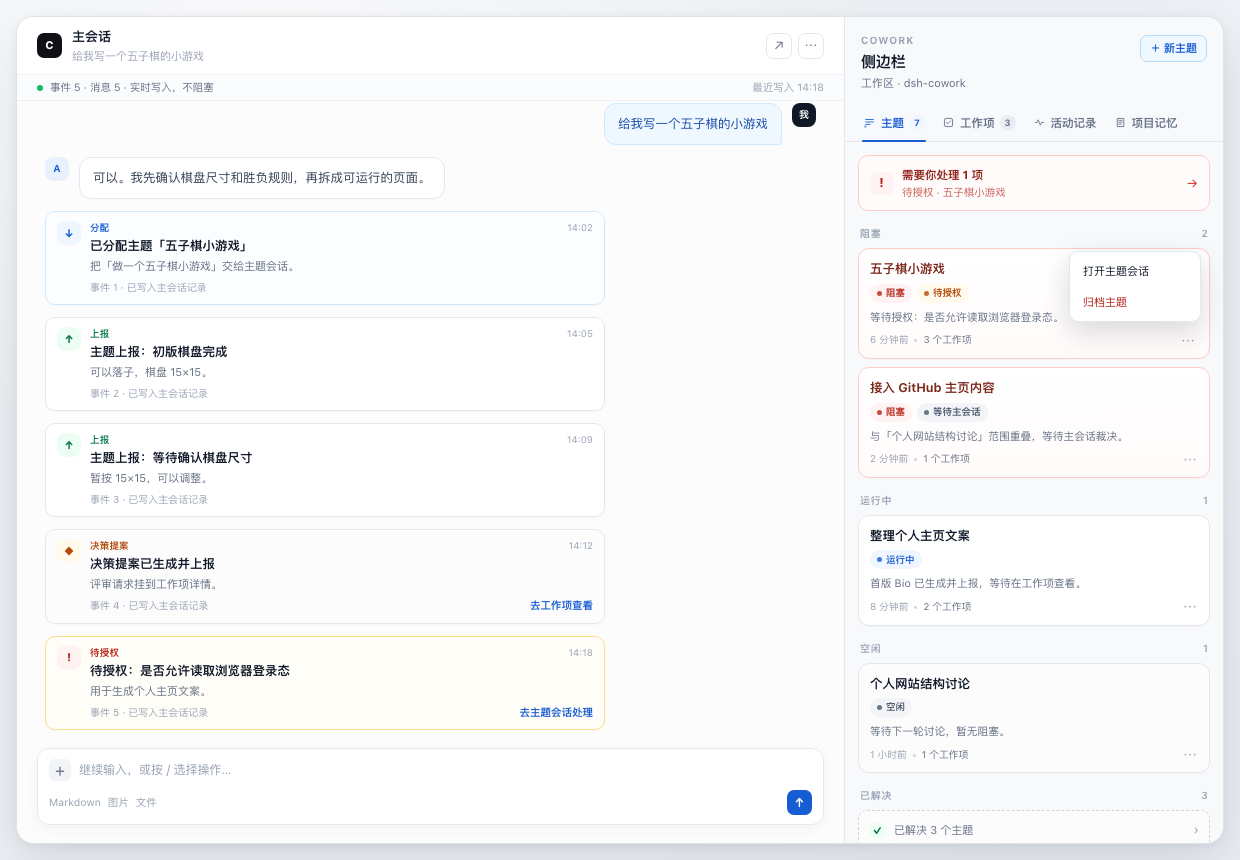
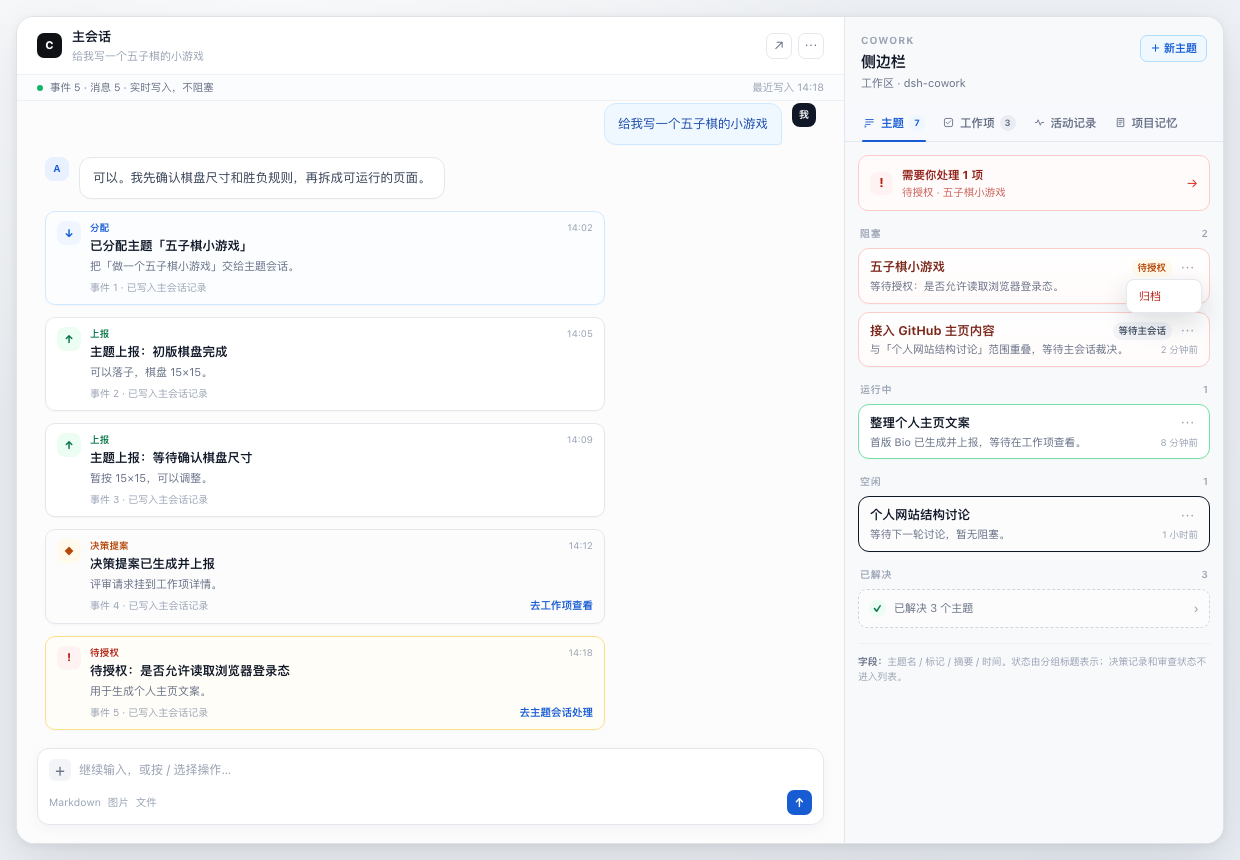
docs(design): 主题卡按分组着色并同步交互稿
阻塞沿用当前红色，运行中绿色，空闲黑色，已解决灰色。两行卡片和
一行归档/恢复菜单同步到完整交互稿、总览图和归档截图。

diff --git a/docs/discussion/topic-demo-v2.html b/docs/discussion/topic-demo-v2.html
@@ -119,26 +119,23 @@
     blocked: {
       title: '接入 GitHub 主页内容',
       cls: 'blocked',
-      chips: [['red', '阻塞'], ['gray', '等待主会话']],
+      chips: [['gray', '等待主会话']],
       digest: '与「个人网站结构讨论」范围重叠，等待主会话裁决。',
-      time: '2 分钟前',
-      work: 1
+      time: '2 分钟前'
     },
     running: {
       title: '整理个人主页文案',
       cls: 'running',
-      chips: [['blue', '运行中']],
+      chips: [],
       digest: '首版 Bio 已生成并上报，等待在工作项查看。',
-      time: '8 分钟前',
-      work: 2
+      time: '8 分钟前'
     },
     idle: {
       title: '个人网站结构讨论',
       cls: 'idle',
-      chips: [['gray', '空闲']],
+      chips: [],
       digest: '等待下一轮讨论，暂无阻塞。',
-      time: '1 小时前',
-      work: 1
+      time: '1 小时前'
     }
   }
 
@@ -183,14 +180,14 @@
     if (state.step === 0) return null
     if (state.archived) {
       return {
-        title: '五子棋小游戏', cls: 'resolved', chips: [['green', '已解决']],
-        digest: '已归档 · 主会话已记录。', time: '刚刚', work: 3
+        title: '五子棋小游戏', cls: 'resolved', chips: [],
+        digest: '已归档 · 主会话已记录。', time: '刚刚'
       }
     }
     if (state.step >= 4 && state.permission === 'pending') {
       return {
-        title: '五子棋小游戏', cls: 'blocked', chips: [['red', '阻塞'], ['amber', '待授权']],
-        digest: '等待授权：是否允许读取浏览器登录态。', time: '6 分钟前', work: 3
+        title: '五子棋小游戏', cls: 'blocked', chips: [['amber', '待授权']],
+        digest: '等待授权：是否允许读取浏览器登录态。', time: '6 分钟前'
       }
     }
     const digests = {
@@ -205,31 +202,32 @@
     }
     const times = { 1: '刚刚', 2: '3 分钟前', 3: '5 分钟前', 4: '6 分钟前', 5: '6 分钟前' }
     return {
-      title: '五子棋小游戏', cls: 'running', chips: [['blue', '运行中']],
-      digest: digests[Math.min(state.step, 4)], time: times[state.step] || '刚刚', work: 3
+      title: '五子棋小游戏', cls: 'running', chips: [],
+      digest: digests[Math.min(state.step, 4)], time: times[state.step] || '刚刚'
     }
   }
 
   function cardHtml(card, isDemo = false) {
-    const chips = card.chips.map(([kind, text]) => `<span class="chip ${kind}">${esc(text)}</span>`).join('')
+    const markers = card.chips.map(([kind, text]) => `<span class="marker ${kind}">${esc(text)}</span>`).join('')
     const more = isDemo
       ? '<button class="more more-button" data-card-menu="1" aria-label="主题菜单">⋯</button>'
       : '<span class="more">⋯</span>'
     const menu = isDemo && state.menu
       ? `<div class="card-menu" role="menu">
-          <button data-menu="open">打开主题会话</button>
           ${state.archived
-            ? '<button data-menu="restore" class="menu-restore">从归档中恢复</button>'
-            : '<button data-menu="archive" class="menu-archive">归档主题</button>'}
+            ? '<button data-menu="restore" class="menu-restore">恢复</button>'
+            : '<button data-menu="archive" class="menu-archive">归档</button>'}
         </div>`
       : ''
     return `<article class="topic-card ${card.cls}">
-      <h3 class="topic-title">${esc(card.title)}</h3>
-      <div class="chips">${chips}</div>
-      <p class="digest">${esc(card.digest)}</p>
-      <div class="topic-meta">
-        <span class="topic-meta-left">${esc(card.time)}<span class="meta-dot"></span><span class="work-count">${card.work} 个工作项</span></span>
+      <div class="topic-head">
+        <h3 class="topic-title">${esc(card.title)}</h3>
+        ${markers}
         ${more}
+      </div>
+      <div class="topic-body">
+        <p class="topic-summary">${esc(card.digest)}</p>
+        <span class="topic-time">${esc(card.time)}</span>
       </div>
       ${menu}
     </article>`
@@ -272,7 +270,7 @@
       + group('运行中', runningCards, runningCards.length)
       + group('空闲', [cardHtml(STATIC.idle)], 1)
       + group('已解决', resolvedCards, resolvedTotal, resolvedExtra)
-      + `<div class="field-note"><b>字段：</b>主题名 / 生命周期 / 待授权 / 更新时间 / 摘要 / 工作项数。决策记录和审查状态不进入主题列表。</div>`
+      + `<div class="field-note"><b>字段：</b>主题名 / 标记 / 摘要 / 时间。状态由分组标题表示；决策记录和审查状态不进入列表。</div>`
 
     document.getElementById('topicTabCount').textContent = String(6 + (state.step >= 1 ? 1 : 0))
   }
@@ -351,7 +349,7 @@
         <thead><tr><th>现在</th><th>事件</th><th>之后</th></tr></thead>
         <tbody>
           <tr><td>—</td><td>主会话分配</td><td>运行中</td></tr>
-          <tr><td>运行中</td><td>1 天没有活动</td><td>空闲</td></tr>
+          <tr><td>运行中</td><td>最后一次活动后 1 天</td><td>空闲</td></tr>
           <tr><td>空闲</td><td>新活动</td><td>运行中</td></tr>
           <tr><td>运行中 / 空闲</td><td>待授权、跨主题冲突、交接阻塞</td><td>阻塞</td></tr>
           <tr><td>阻塞</td><td>问题处理完</td><td>回到阻塞前的状态</td></tr>
@@ -363,7 +361,7 @@
       <p class="ov-note"><b>决策记录：</b>只在主题会话生成并上报；主题页不展示记录，也不展示审查状态。查看和提意见在工作项，资料进 Artifact 工作室，这两处不在本设计内。</p>
       <p class="ov-note"><b>需要你处理：</b>只统计待授权，是入口不是队列。分配、上报、提案的提醒在会话记录里，不在主题页复制。</p>
       <p class="ov-note"><b>待授权：</b>是标记不是分组。标记出现时主题在阻塞组；处理完回到阻塞前的状态。</p>
-      <p class="ov-note"><b>归档入口：</b>在主题卡的 ⋯ 菜单里，菜单里另有“从归档中恢复”。归档后主会话只留一条消息。</p>
+      <p class="ov-note"><b>归档入口：</b>在主题卡的 ⋯ 菜单里；已解决卡片的菜单里是“恢复”。归档后主会话只留一条消息。</p>
     </div>`
   }
 

diff --git a/docs/discussion/topic-card-style.html b/docs/discussion/topic-card-style.html
@@ -65,7 +65,9 @@
     box-shadow: 0 1px 1px rgba(16, 24, 40, .025);
   }
   .card.blocked { border-color: #fecdca; background: linear-gradient(180deg, #fff 0%, #fffbfa 100%); }
-  .card.resolved { background: #fcfcfd; }
+  .card.running { border-color: #75e0a7; }
+  .card.idle { border-color: #101828; background: #fcfcfd; }
+  .card.resolved { border-color: #c3c9d4; background: #fcfcfd; }
   .head { display: flex; align-items: center; gap: 6px; }
   .title {
     flex: 1;
@@ -172,7 +174,7 @@
 <div class="canvas">
   <header>
     <h1>主题卡样式：两行 + 菜单最多 2 行</h1>
-    <div class="sub">卡片只留主题名和一行摘要。待授权等标记放主题名右侧，时间放摘要右侧；运行中、阻塞、已解决由分组标题表示，不在卡片上重复。</div>
+    <div class="sub">卡片只留主题名和一行摘要。待授权等标记放主题名右侧，时间放摘要右侧；运行中、阻塞、已解决由分组标题表示，不在卡片上重复。边框颜色：阻塞红、运行中绿、空闲黑、已解决灰。</div>
   </header>
 
   <div class="grid">
@@ -205,7 +207,7 @@
 
       <div class="group-block">
         <div class="group-label">运行中</div>
-        <article class="card">
+        <article class="card running">
           <div class="head">
             <h3 class="title">整理个人主页文案</h3>
             <button class="more" aria-label="主题菜单">⋯</button>
@@ -213,6 +215,20 @@
           <div class="body">
             <p class="summary">首版 Bio 已生成并上报，等待在工作项查看。</p>
             <span class="time">8 分钟前</span>
+          </div>
+        </article>
+      </div>
+
+      <div class="group-block">
+        <div class="group-label">空闲</div>
+        <article class="card idle">
+          <div class="head">
+            <h3 class="title">个人网站结构讨论</h3>
+            <button class="more" aria-label="主题菜单">⋯</button>
+          </div>
+          <div class="body">
+            <p class="summary">等待下一轮讨论，暂无阻塞。</p>
+            <span class="time">1 小时前</span>
           </div>
         </article>
       </div>
@@ -235,7 +251,7 @@
     <div class="col">
       <div class="menu-row">
         <div class="group-label">运行中 <span>菜单展开 · 1 行</span></div>
-        <article class="card">
+        <article class="card running">
           <div class="head">
             <h3 class="title">整理个人主页文案</h3>
             <button class="more" aria-label="主题菜单">⋯</button>
@@ -269,7 +285,8 @@
           <li><b>两行：</b>主题名 + 一行摘要。</li>
           <li><b>待授权、等待主会话</b>等标记在主题名右侧；没有标记就不占位。</li>
           <li><b>时间</b>在摘要右侧（右下角）。</li>
-          <li><b>运行中 / 阻塞 / 已解决</b>不写进卡片，由分组标题表示。</li>
+          <li><b>运行中 / 阻塞 / 空闲 / 已解决</b>不写进卡片，由分组标题表示。</li>
+          <li><b>边框颜色：</b>阻塞红、运行中绿、空闲黑、已解决灰。</li>
           <li><b>菜单 1 行，最多 2 行。</b>归档可撤回、不弹确认；恢复不写主会话记录。</li>
           <li><b>空闲</b>从最后一次活动开始算，1 天后进入空闲组。</li>
         </ul>
@@ -277,7 +294,7 @@
     </div>
   </div>
 
-  <div class="foot">确认这版卡片后，再同步到完整交互稿和截图。</div>
+  <div class="foot">完整交互稿和列表截图已同步到这版卡片。</div>
 </div>
 </body>
 </html>

diff --git a/docs/discussion/topic-demo-v2.css b/docs/discussion/topic-demo-v2.css
@@ -295,23 +295,55 @@
   .topic-card {
     position: relative;
     margin-bottom: 8px;
-    padding: 11px 11px 10px;
+    padding: 9px 11px 8px;
     border: 1px solid var(--line);
     border-radius: 11px;
     background: var(--card);
     box-shadow: 0 1px 1px rgba(16, 24, 40, .025);
   }
   .topic-card.blocked { border-color: #fecdca; background: linear-gradient(180deg, #fff 0%, #fffbfa 100%); }
-  .topic-card.running { border-color: #e4e7ec; }
-  .topic-card.idle { background: #fcfcfd; }
+  .topic-card.running { border-color: #75e0a7; }
+  .topic-card.idle { border-color: #101828; background: #fcfcfd; }
+  .topic-head { display: flex; align-items: center; gap: 6px; }
   .topic-title {
-    margin: 0 0 6px;
+    flex: 1;
+    min-width: 0;
+    margin: 0;
     color: #101828;
     font-size: 12.5px;
     font-weight: 650;
-    line-height: 1.4;
+    line-height: 1.5;
+    white-space: nowrap;
+    overflow: hidden;
+    text-overflow: ellipsis;
   }
   .topic-card.blocked .topic-title { color: #7a271a; }
+  .topic-body { display: flex; align-items: baseline; gap: 10px; margin-top: 1px; }
+  .topic-summary {
+    flex: 1;
+    min-width: 0;
+    margin: 0;
+    color: #667085;
+    font-size: 10.75px;
+    line-height: 1.55;
+    white-space: nowrap;
+    overflow: hidden;
+    text-overflow: ellipsis;
+  }
+  .topic-time { flex: none; color: var(--soft); font-size: 9.5px; }
+  .marker {
+    flex: none;
+    height: 18px;
+    padding: 0 6px;
+    border-radius: 999px;
+    font-size: 9.5px;
+    line-height: 18px;
+    font-weight: 600;
+    white-space: nowrap;
+  }
+  .marker.amber { color: var(--amber); background: var(--amber-soft); }
+  .marker.gray { color: #475467; background: var(--gray-soft); }
+  .topic-head .more { flex: none; width: 20px; height: 18px; display: inline-flex; align-items: center; justify-content: center; }
   .chips { display: flex; flex-wrap: wrap; gap: 5px; margin-bottom: 6px; }
   .chip {
     display: inline-flex;
@@ -556,7 +588,7 @@
 /* ---------- sidebar additions ---------- */
 .action-bar { cursor: pointer; }
 .action-bar:hover { background: #fff5f4; }
-.topic-card.resolved { background: #fcfcfd; border-color: #e4e7ec; }
+.topic-card.resolved { background: #fcfcfd; border-color: #c3c9d4; }
 .resolved-list { display: flex; flex-direction: column; gap: 7px; margin-bottom: 7px; }
 .field-note b { color: #667085; font-weight: 650; }
 .app[data-step="0"] .mobile-tabs { display: none; }
@@ -581,22 +613,23 @@ body.shot .app { width: 1208px; }
 .more-button:hover { color: var(--ink); }
 .card-menu {
   position: absolute;
-  right: 8px;
-  bottom: 36px;
+  top: 30px;
+  right: 7px;
   z-index: 8;
-  min-width: 132px;
-  padding: 4px;
+  min-width: 76px;
+  padding: 3px;
   border: 1px solid var(--line);
-  border-radius: 9px;
+  border-radius: 8px;
   background: #fff;
-  box-shadow: 0 10px 28px rgba(16, 24, 40, .16);
+  box-shadow: 0 10px 26px rgba(16, 24, 40, .15);
 }
 .card-menu button {
   display: block;
   width: 100%;
-  padding: 7px 9px;
+  height: 26px;
+  padding: 0 9px;
   border: 0;
-  border-radius: 6px;
+  border-radius: 5px;
   background: transparent;
   color: var(--ink);
   font: inherit;
